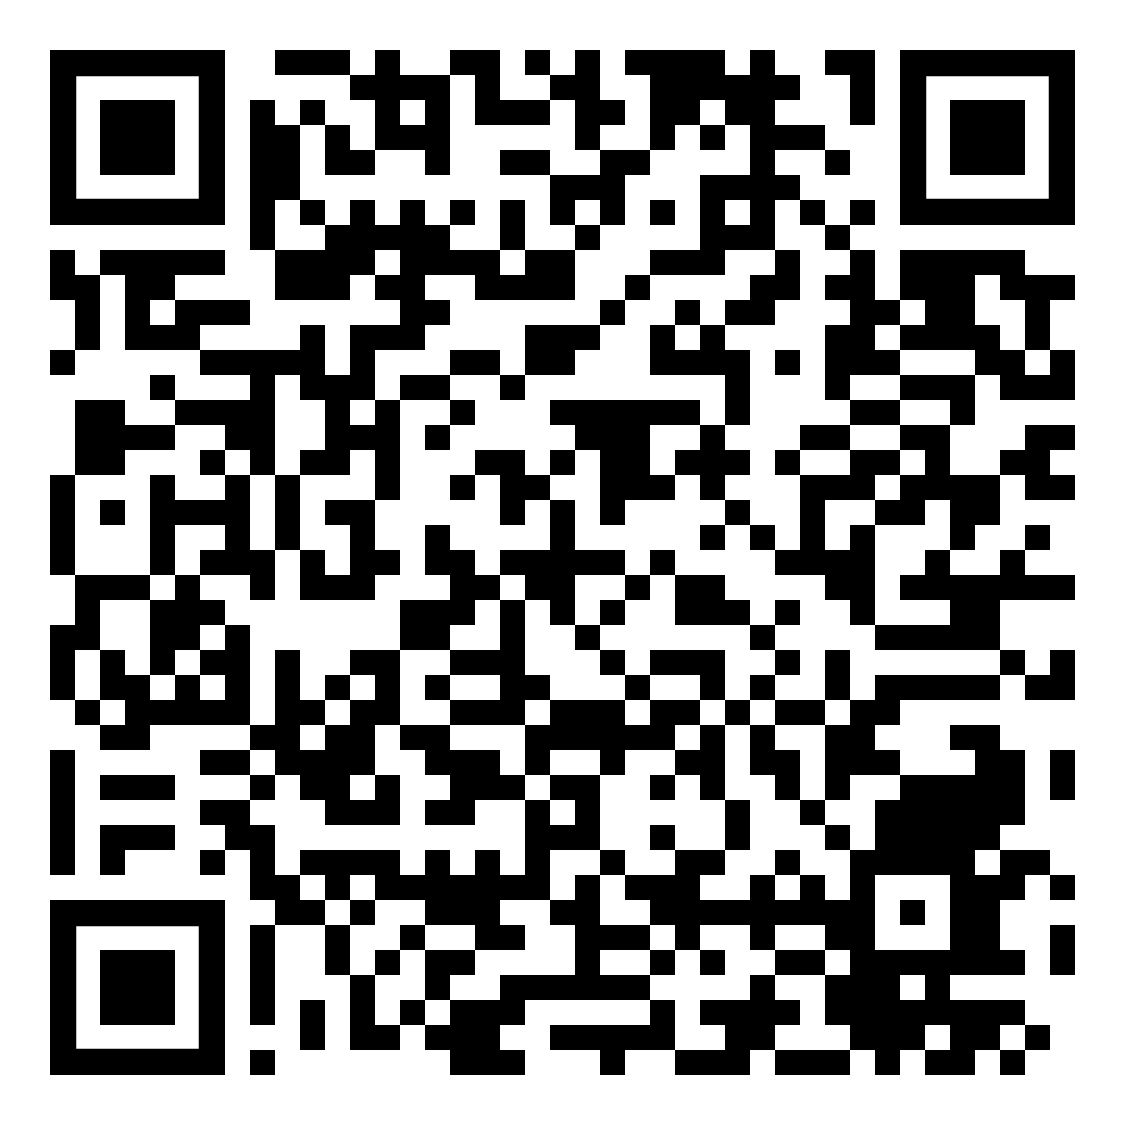
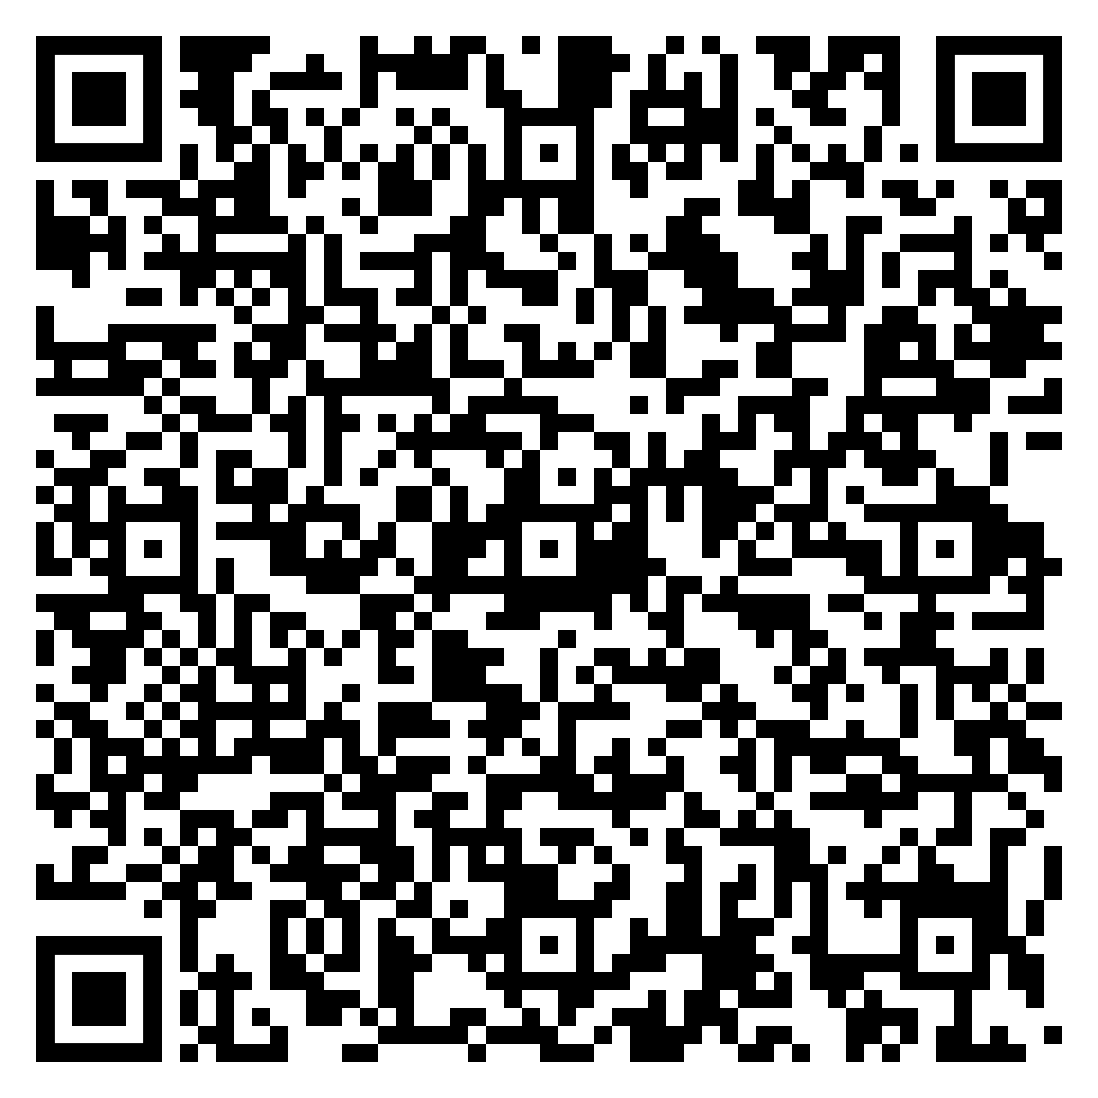
Test image share

diff --git a/src/app/central-beuaty-award/GenerateYourBauetyGiftCard/page.tsx b/src/app/central-beuaty-award/GenerateYourBauetyGiftCard/page.tsx
@@ -8,6 +8,7 @@ import { PostImgAPI, NextStepImgAPI } from "./controller";
 import { MdOutlineArrowBack } from "react-icons/md";
 import { MdHome } from "react-icons/md";
 import { useRouter } from "next/navigation";
+import { useQRCode } from 'next-qrcode';
 
 import Loader from "@/components/Loader";
 
@@ -21,6 +22,8 @@ const page = () => {
   const imageGen = 1
 
   const router = useRouter();
+  const { Canvas } = useQRCode();
+
 
   // #########################################################################
   // #########################################################################
@@ -136,7 +139,22 @@ const page = () => {
               className="w-[1300px] rounded-[40px] m-auto"
             />
             <div className="relative w-full m-auto justify-center items-center flex ">
-              <button
+              <div className="p-4 border-2 rounded-[40px] m-auto">
+                <Canvas
+                  text={`https://campaign.creaive.ai/images/replicate/${keepUrls[0]}`}
+                  options={{
+                    errorCorrectionLevel: 'M',
+                    margin: 3,
+                    scale: 8,
+                    width: 250,
+                    color: {
+                      dark: '#000000',
+                      light: '#F6E7DF',
+                    },
+                  }}
+                />
+              </div>
+              {/* <button
                 className="absolute z-50 w-[150px] h-[150px] text-black text-center text-[40px] bg-[#F6E7DF] border-[#e4c7ad] rounded-[100%] border-2 "
               // onClick={share}
               >
@@ -144,9 +162,9 @@ const page = () => {
                   className="w-full border-[#e4c7ad]"
                   size={80}
                   color="#e4c7ad"
-                  // style={{ color: "#7e7e7e" }}
+                // style={{ color: "#7e7e7e" }}
                 />
-              </button>
+              </button> */}
             </div>
           </div>
 
@@ -244,7 +262,7 @@ const page = () => {
                     className="w-full m-auto border-[#e4c7ad]"
                     size={80}
                     color="#e4c7ad"
-                    // style={{ color: "#7e7e7e" }}
+                  // style={{ color: "#7e7e7e" }}
                   />
                 </button>
               </div>

diff --git a/src/app/central-beuaty-award/GenerateYourBauetyGiftCard/[slug]/page.tsx b/src/app/central-beuaty-award/GenerateYourBauetyGiftCard/[slug]/page.tsx
@@ -1,3 +1,4 @@
+// "use client"
 // export const dynamic = 'force-static'
 // export const dynamicParams = false
 
